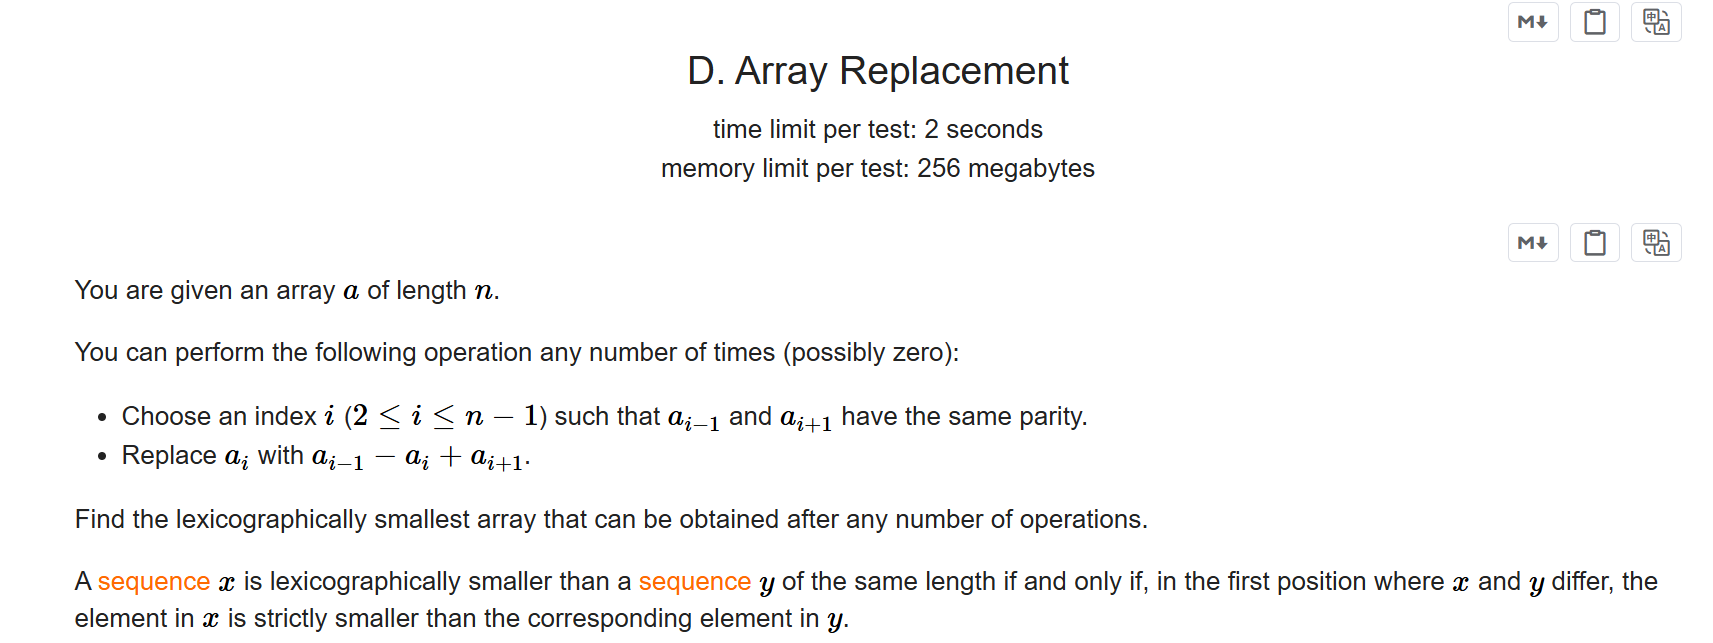
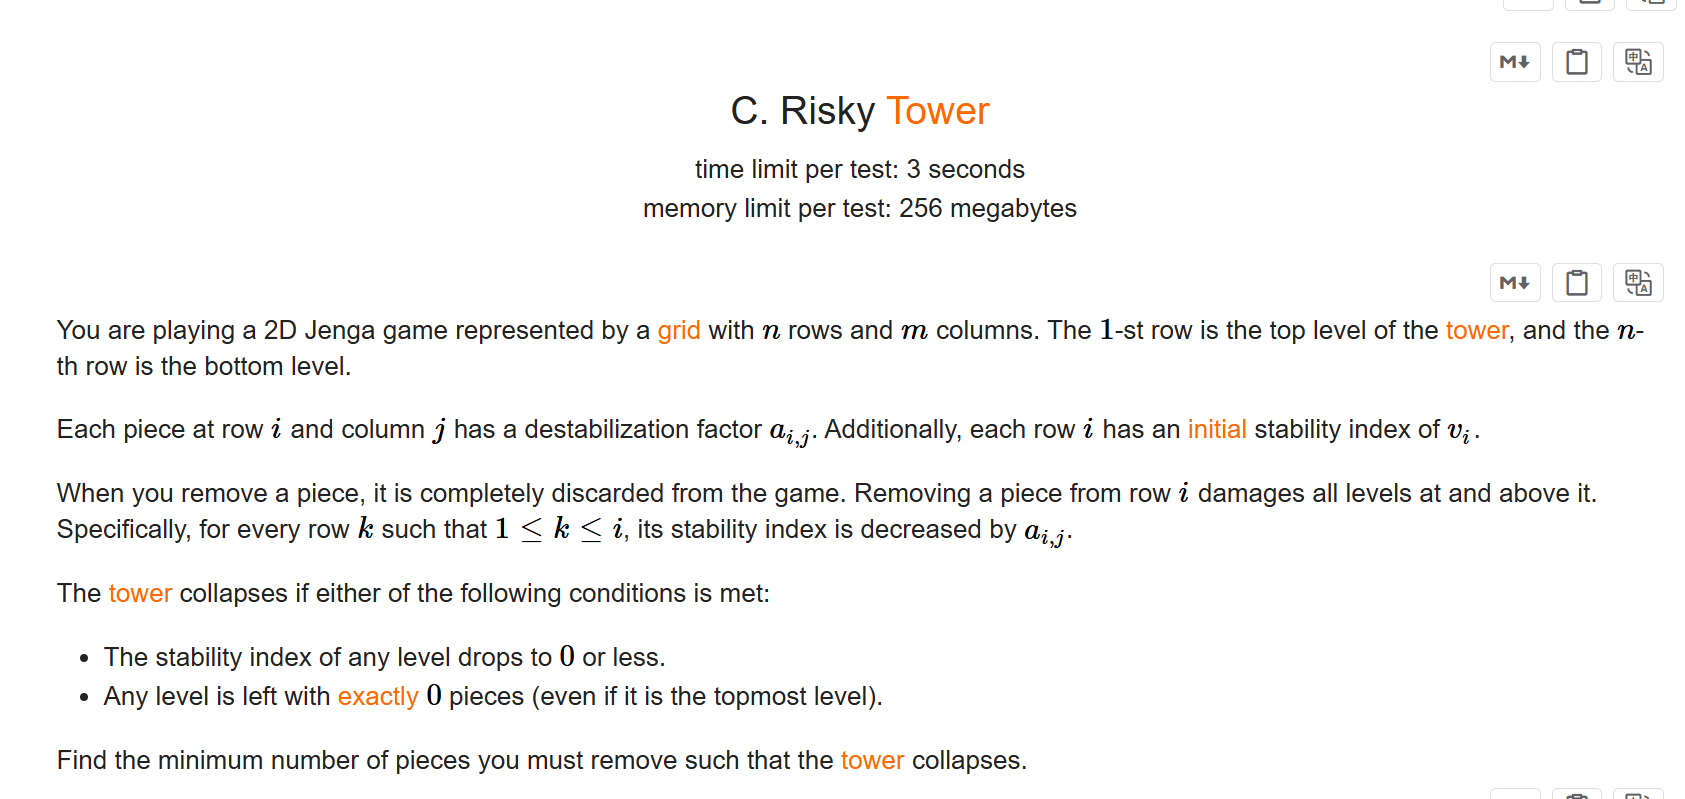
Update blog 周五 2026/09/04 16:55:01.10

diff --git a/content/posts/td/春屿里-云南菜/index.md b/content/posts/td/春屿里-云南菜/index.md
@@ -1,0 +1,35 @@
+
++++
+title = '春屿里 云南菜'
+date = '2026-09-04T14:34:49+08:00'
+draft = false
+
+
+tags = ['美食']
+categories = ['探店']
+
+author = 'Luo Hong'
+
+showReadingTime = true
+showTableOfContents = true
+showWordCount = true
++++
+
+## 2.0/5.0 昏头了
+
+8月25号，一个平静的傍晚，整天没吃饭的我鬼使神差的走进了这家点，花了近40点下了一份双人餐。
+
+**39.9元 情侣套餐，含有一碗杂酱米线，一份牛肉饺子，一份鲜花饼。**
+![alt text](MVIMG_20260825_193847.jpg)
+![alt text](MVIMG_20260825_192938.jpg)
+
+## 体验
+- 杂酱面最先上，第一口吃的是杂酱，咸味适中，肉明显炸过，有股肉香。可惜的是，杂酱是凉的，一整碗面也没有其他调味，吃起来就是**普普通通的米线**。
+
+- 牛肉饺子，是速冻饺子的味道，里面的肉馅吃不出来是牛肉，倒更像绵密的猪肉淀粉馅。
+
+- 鲜花饼，也是普通的速食。
+- 店内装修还可以，算是工大周围比较精致的了。
+
+总之不推荐单身汉，想吃美食的同学来，这是一家偏向情侣的餐厅，溢价比较严重。
+> 我花40块钱来吃20块钱的套餐，还有20是狗粮钱，用餐期间店内共4对情侣在约会。

diff --git a/content/posts/td/西江红/index.md b/content/posts/td/西江红/index.md
@@ -1,0 +1,34 @@
+
++++
+title = '西江红'
+date = '2026-09-04T16:23:50+08:00'
+draft = false
+
+
+tags = ['美食']
+categories = ['探店']
+
+author = 'Luo Hong'
+
+showReadingTime = true
+showTableOfContents = true
+showWordCount = true
++++
+## 3.8/5.0分 蛮不错
+北苑外的马路对面开了一家西江红，之前尝过滨江路的中心店，味道还不错，所以这次又特地去尝了一下。
+
+**我单点了一份招牌鸡爪，共消费51元。**
+![alt text](IMG_20260803_175514.jpg)
+
+## 体验
+
+![alt text](IMG_20260803_181018.jpg)
+- 鸡爪又香又糯，吃起来脱骨入味。
+- 味道偏重口，辅料有很多炸大蒜末和香辛料，所以吃起来很香，拌饭也是一绝。
+- 一份鸡爪49元，分量对一个人来说很足，两个人有余。
+- 店里菜品的价格还是比较合理的，大部分荤菜价格在26-50，个人认为性价比不错。
+
+虽说这家分店的菜单和总店差不多，但味道感觉是总店的二分之三。不过总体是推荐尝一次的。
+> 店内主打株洲菜，部分炒菜汤水偏多，偏辣。
+
+> 爆炒肥肠的分量少，调味淡，慎点。

diff --git a/content/acm/算法/dp/状压dp/index.md b/content/acm/算法/dp/状压dp/index.md
@@ -1,0 +1,33 @@
+
++++
+title = '状压dp'
+date = '2026-09-01T21:01:22+08:00'
+draft = false
+
+
+tags = ['算法学习']
+categories = ['算法']
+
+author = 'Luo Hong'
+
+showReadingTime = true
+showTableOfContents = true
+showWordCount = true
++++
+
+基本思路：使用位信息来表示状态，然后进行dp
+
+例题如下
+## A
+https://leetcode.cn/problems/can-i-win/
+
+## B
+https://leetcode.cn/problems/matchsticks-to-square/
+
+## C
+https://leetcode.cn/problems/partition-to-k-equal-sum-subsets/
+
+## D
+https://www.luogu.com.cn/problem/P1171
+
+

diff --git a/archetypes/算法.md b/archetypes/算法.md
@@ -1,0 +1,16 @@
+
++++
+title = '{{ replace .File.ContentBaseName "-" " " | title }}'
+date = '{{.Date}}'
+draft = false
+
+
+tags = ['算法学习']
+categories = ['算法']
+
+author = 'Luo Hong'
+
+showReadingTime = true
+showTableOfContents = true
+showWordCount = true
++++

diff --git a/archetypes/td.md b/archetypes/td.md
@@ -1,0 +1,16 @@
+
++++
+title = '{{ replace .File.ContentBaseName "-" " " | title }}'
+date = '{{.Date}}'
+draft = false
+
+
+tags = ['美食']
+categories = ['探店']
+
+author = 'Luo Hong'
+
+showReadingTime = true
+showTableOfContents = true
+showWordCount = true
++++
